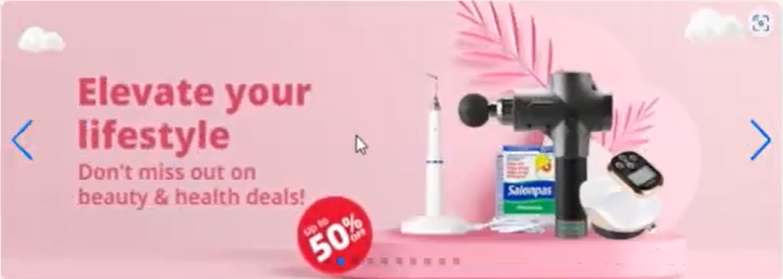
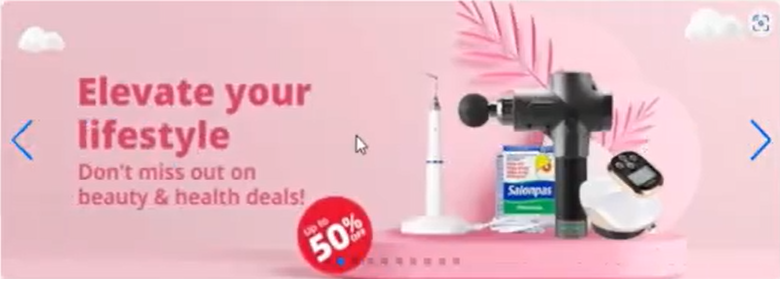
08 Home page. 003 Home swiper 3

diff --git a/components/home/main/swiper.js b/components/home/main/swiper.js
@@ -10,7 +10,7 @@ import 'swiper/css/pagination';
 import 'swiper/css/navigation';
 
 // import required modules
-import { Pagination, Navigation } from 'swiper';
+import { Autoplay, Pagination, Navigation } from 'swiper';
 
 export default function MainSwiper() {
   return (
@@ -19,11 +19,15 @@ export default function MainSwiper() {
         slidesPerView={1}
         spaceBetween={30}
         loop={true}
+        autoplay={{
+          delay: 2500,
+          disableOnInteraction: false,
+        }}
         pagination={{
           clickable: true,
         }}
         navigation={true}
-        modules={[Pagination, Navigation]}
+        modules={[Autoplay, Pagination, Navigation]}
         className="mainSwiper"
       >
         {[...Array(10).keys()].map((i) => (

diff --git a/styles/base.scss b/styles/base.scss
@@ -64,8 +64,19 @@ $shadow-1: rgba(99, 99, 99, 0.2) 0px 2px 8px 0px;
 .swiper {
   margin-left: auto;
   margin-right: auto;
+  cursor: pointer;
+  &:hover {
+    .swiper-button-prev,
+    .swiper-button-next {
+      display: grid;
+    }
+  }
 }
 .mainSwiper {
+  .swiper {
+    border-radius: 10px !important;
+    overflow: hidden !important;
+  }
   .swiper-slide img {
     height: 300px !important;
     border-radius: 10px !important;
@@ -87,6 +98,8 @@ $shadow-1: rgba(99, 99, 99, 0.2) 0px 2px 8px 0px;
     height: 80px;
     transition: 0.2s;
     background: rgba(102, 102, 102, 0.354);
+    display: none;
+    place-items: center;
   }
   .swiper-button-prev {
     left: -13px;
